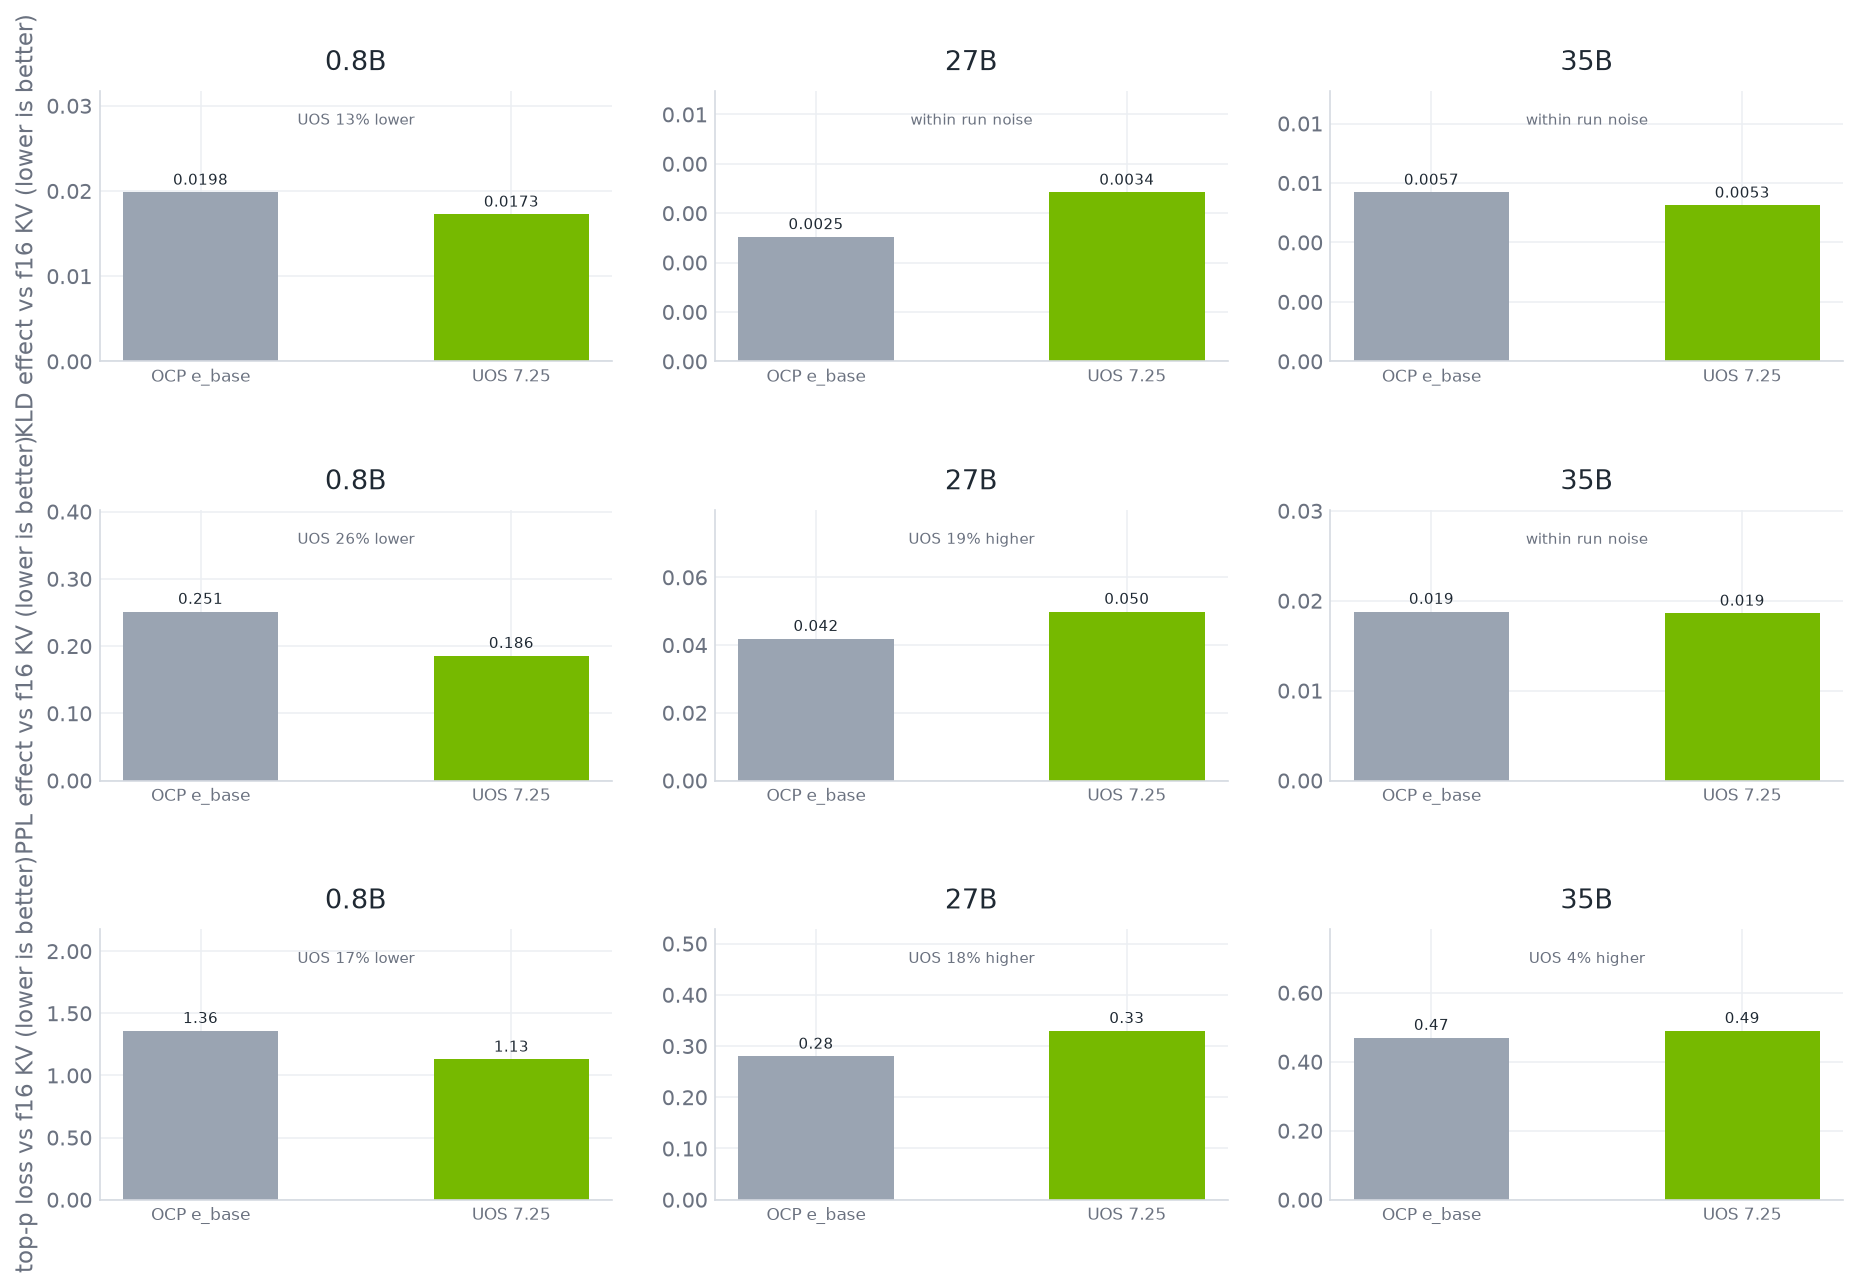
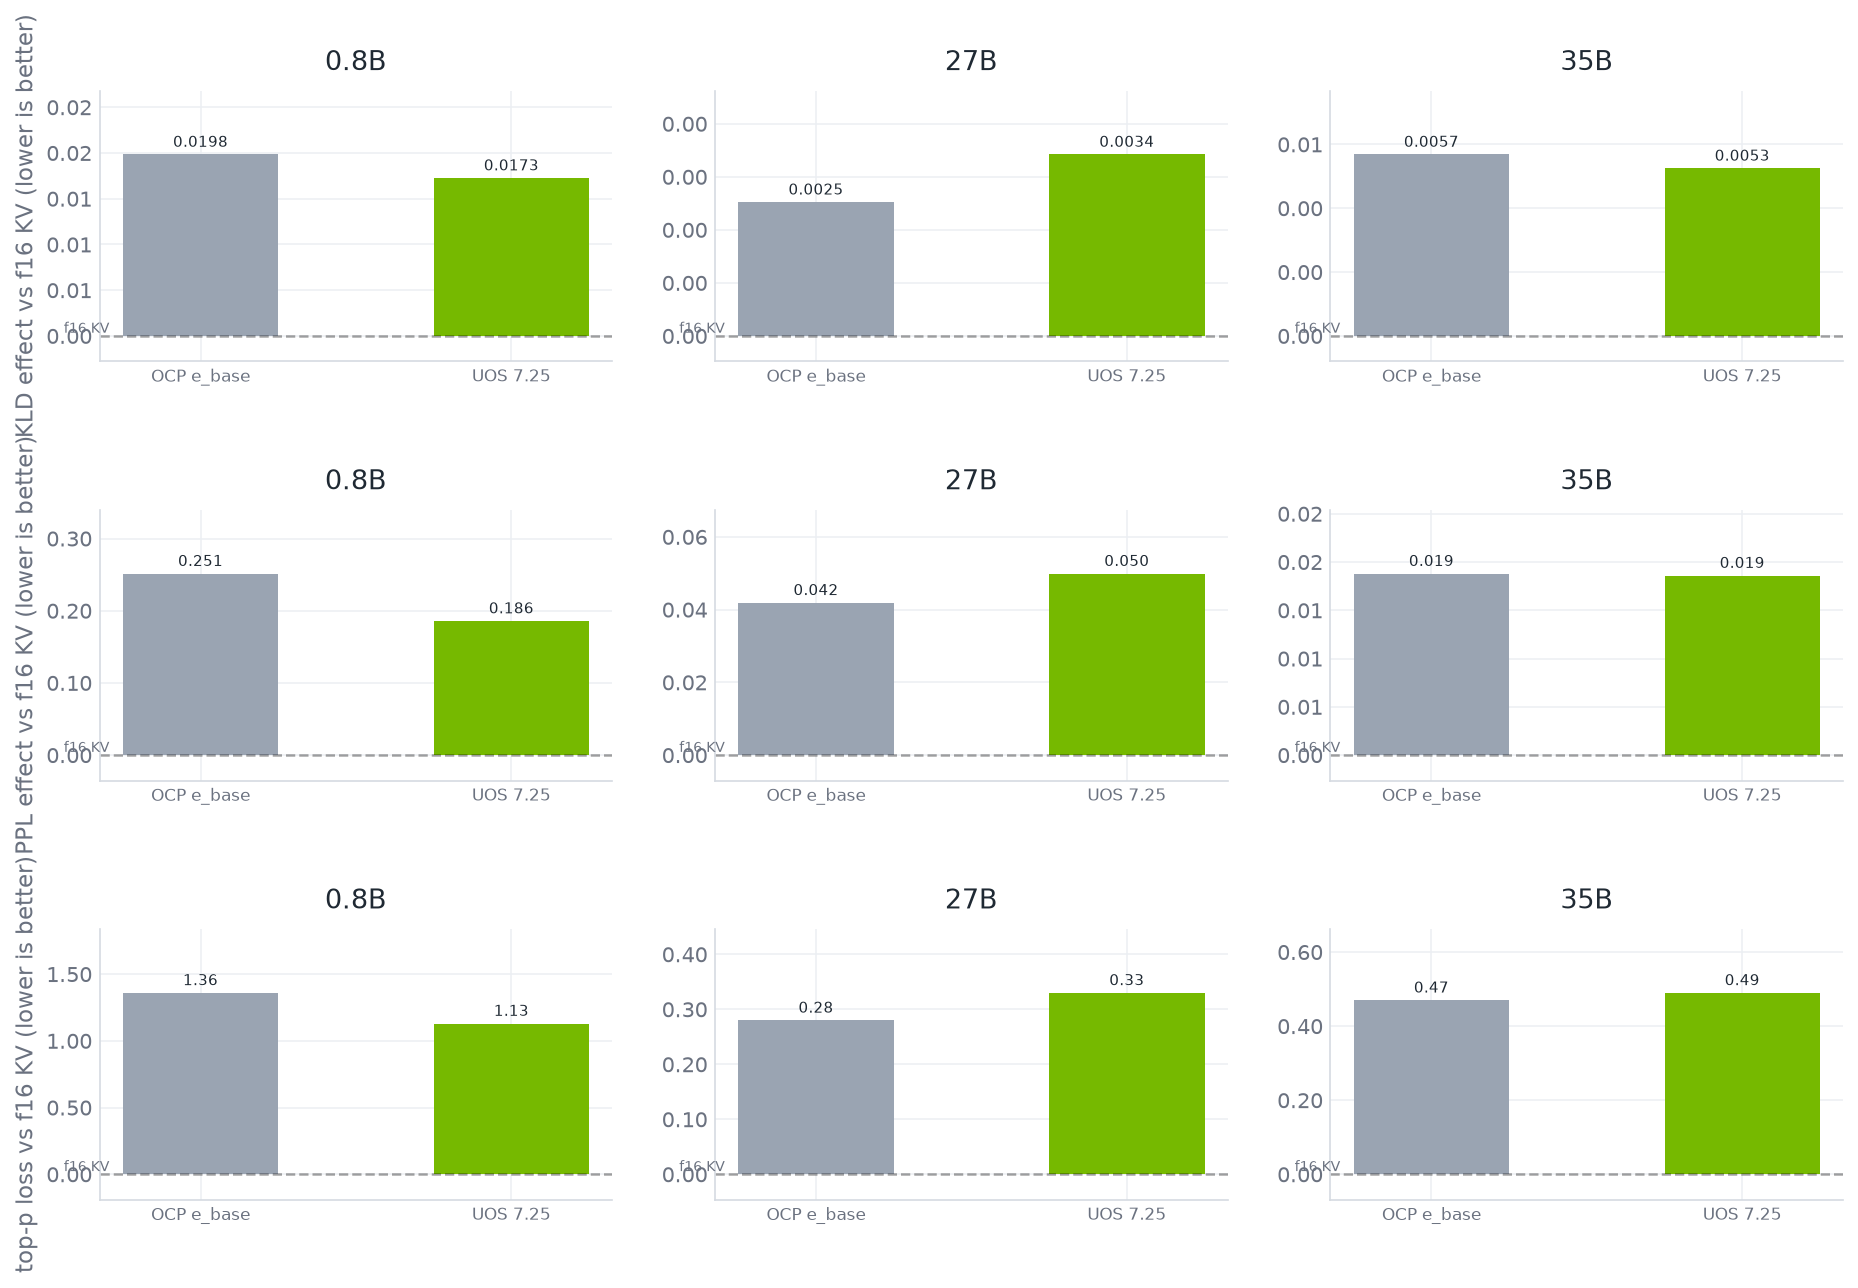
kv charts: dashed f16-KV reference line, drop editorial tags

diff --git a/charts.py b/charts.py
@@ -243,6 +243,8 @@ def kv_cache():
         _speed_row(ax[3 + col], d["tg"], "GPU decode (t/s)" if col == 0 else None)
         _speed_row(ax[6 + col], d["cpu9900"], "9900X tg32 (t/s)" if col == 0 else None, log=False)
         # PPL effect vs f16 KV: bar height IS the KV quantization cost
+        # PPL effect vs f16 KV: bar height IS the KV quantization cost;
+        # dashed line = f16-KV control (0 effect)
         axp = ax[9 + col]
         style_axes(axp, ylabel="PPL effect vs f16 KV (lower is better)" if col == 0 else None)
         f16p = d["ppl"]["f16"]
@@ -251,7 +253,10 @@ def kv_cache():
         bp = axp.bar(kv4, eff, color=[kv_color(t) for t in kv4], width=0.6)
         axp.bar_label(bp, fmt="%.4f", fontsize=7, color=PALETTE["text"], padding=2)
         axp.yaxis.set_major_formatter(FuncFormatter(lambda v, _: f"{v:.4f}"))
-        axp.set_ylim(0, max(eff) * 1.35)
+        vmax = max(eff)
+        axp.set_ylim(-vmax * 0.14, vmax * 1.35)
+        axp.axhline(0, color="#000000", ls="--", lw=1.2, alpha=0.35, zorder=2)
+        axp.text(-0.44, 0, "f16 KV", fontsize=6.5, color=PALETTE["muted"], va="bottom", ha="left")
     save(fig, "kv-cache.png")
 
 # ------------------------------------------------------------------ KL + top-p
@@ -437,12 +442,9 @@ def w4a8_vs_w4a4():
         ax[3 + col].legend(frameon=False, fontsize=6.5, loc="upper right", ncol=2)
     save(fig, "w4a8-vs-w4a4.png")
 
-# per-run KLD std (fresh logs) for the "within noise" tag
-KV_STD = {"0.8B": 0.000570, "27B": 0.001922, "35B": 0.000588}
-
 def kv_uos():
     # effect = arm - f16-KV control (topp: control - arm), so bar height IS the
-    # KV quantization cost and the UOS-vs-e_base difference is directly visible
+    # KV quantization cost; the dashed line is the f16-KV control (0 effect)
     fig, ax = new_figure(3, 3, w=5.0, h=3.2)
     fig.subplots_adjust(hspace=0.55)
     models = list(KVDATA.keys())
@@ -460,15 +462,10 @@ def kv_uos():
             a.bar_label(b, fmt=fmt, fontsize=7, color=PALETTE["text"], padding=2)
             a.set_xticks([0, 1]); a.set_xticklabels(["OCP e_base", "UOS 7.25"], fontsize=8)
             a.yaxis.set_major_formatter(FuncFormatter(lambda v, _: f"{v:.4f}" if key == "kld" else f"{v:.3f}" if key == "ppl" else f"{v:.2f}"))
-            a.set_ylim(0, max(eff) * 1.6)
-            de, du = eff
-            if abs(de - du) <= 2 * KV_STD[m]:
-                tag = "within run noise"
-            elif du < de:
-                tag = f"UOS {(de - du) / de:.0%} lower"
-            else:
-                tag = f"UOS {(du - de) / de:.0%} higher"
-            a.text(0.5, max(eff) * 1.38, tag, fontsize=7, color=PALETTE["muted"], ha="center", va="bottom")
+            vmax = max(eff)
+            a.set_ylim(-vmax * 0.14, vmax * 1.35)
+            a.axhline(0, color="#000000", ls="--", lw=1.2, alpha=0.35, zorder=2)
+            a.text(-0.44, 0, "f16 KV", fontsize=6.5, color=PALETTE["muted"], va="bottom", ha="left")
     save(fig, "kv-uos-vs-ebase.png")
 
 
